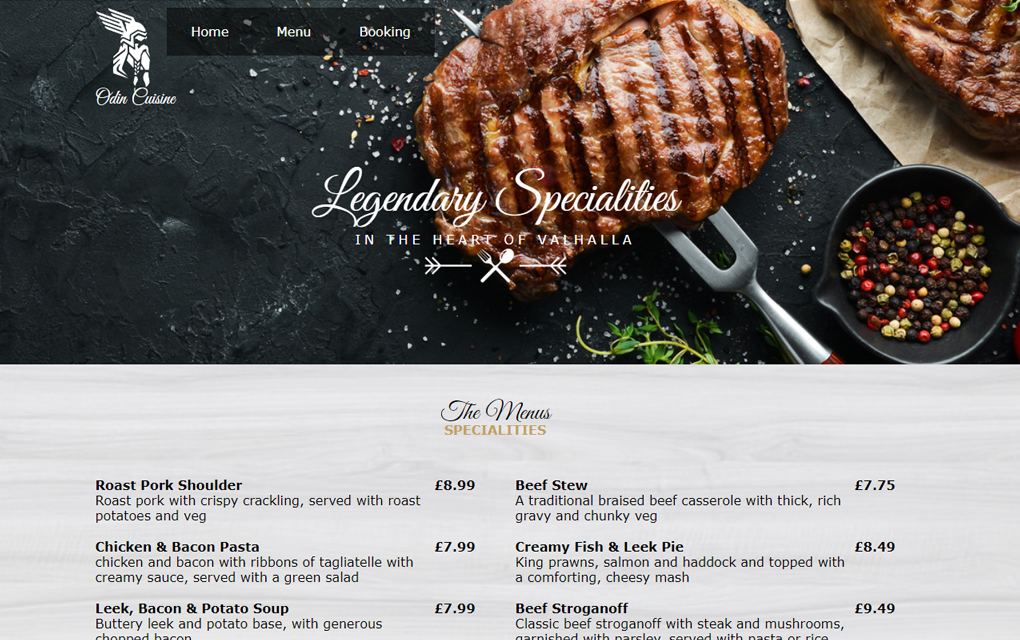
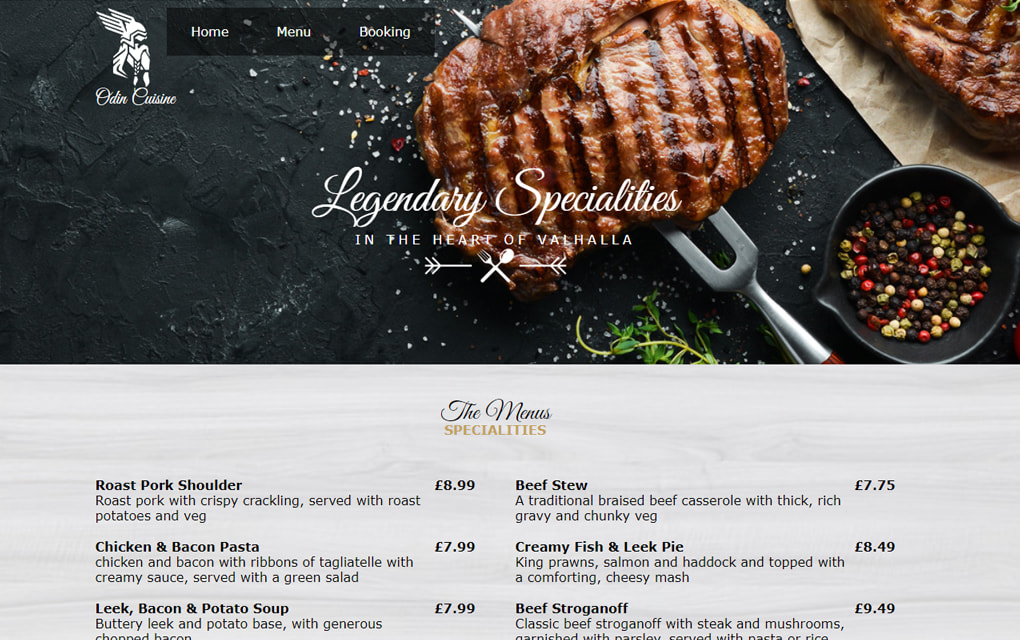
Optimize page

diff --git a/index.html b/index.html
@@ -5,6 +5,13 @@
   <meta charset="UTF-8">
   <meta name="viewport" content="width=device-width, initial-scale=1.0">
 
+  <meta name="description"
+    content="Ekaterina Furman portfolio website. Showing my HTML, CSS, JavaScript, and other skills.">
+
+  <link rel="icon" href="img/favicon/lux-circle-dragon-favicon.png">
+  <link rel="apple-touch-icon" href="img/favicon/lux-circle-dragon-favicon-apple-180.png">
+  <link rel="manifest" href="manifest.webmanifest">
+
   <link rel="preconnect" href="https://fonts.googleapis.com">
   <link rel="preconnect" href="https://fonts.gstatic.com" crossorigin>
   <link href="https://fonts.googleapis.com/css2?family=Rubik:wght@300;400;500;600;700&display=swap" rel="stylesheet">
@@ -65,11 +72,12 @@
           <a class="btn btn-secondary" href="#portfolio">Portfolio</a>
 
           <div class="socials-box">
-            <a class="socials" target="_blank" href="https://www.linkedin.com/in/ekaterina-furman/"><ion-icon
-                class="socials-icon" name="logo-linkedin"></ion-icon></a>
+            <a aria-label="linkedin" class="socials" target="_blank"
+              href="https://www.linkedin.com/in/ekaterina-furman/"><ion-icon class="socials-icon"
+                name="logo-linkedin"></ion-icon></a>
 
-            <a class="socials" target="_blank" href="https://github.com/LuxScintilla"><ion-icon class="socials-icon"
-                name="logo-github"></ion-icon></a>
+            <a aria-label="github" class="socials" target="_blank" href="https://github.com/LuxScintilla"><ion-icon
+                class="socials-icon" name="logo-github"></ion-icon></a>
           </div>
         </div>
         <div class="hero-img-box">
@@ -319,11 +327,12 @@
           </a>
 
           <div class="footer-socials">
-            <a class="socials" target="_blank" href="https://www.linkedin.com/in/ekaterina-furman/"><ion-icon
-                class="socials-icon" name="logo-linkedin"></ion-icon></a>
+            <a aria-label="linkedin" class="socials" target="_blank"
+              href="https://www.linkedin.com/in/ekaterina-furman/"><ion-icon class="socials-icon"
+                name="logo-linkedin"></ion-icon></a>
 
-            <a class="socials" target="_blank" href="https://github.com/LuxScintilla"><ion-icon class="socials-icon"
-                name="logo-github"></ion-icon></a>
+            <a aria-label="github" class="socials" target="_blank" href="https://github.com/LuxScintilla"><ion-icon
+                class="socials-icon" name="logo-github"></ion-icon></a>
           </div>
 
           <p class="copyright">

diff --git a/css/style.css b/css/style.css
@@ -214,7 +214,7 @@ a:visited {
 /* HERO ---------------------------------------------------------- */
 
 .section-hero {
-  background-image: url("/img/mountain-daniel-leone.jpg");
+  background-image: url("/img/mountain-daniel-leone-compressed.jpg");
   background-position: center;
   background-repeat: no-repeat;
   background-size: cover;

diff --git a/js/script.js b/js/script.js
@@ -28,3 +28,7 @@ mobileNavBtn.forEach(
     headerEl.classList.toggle("nav-open");
   })
 );
+
+const yearEl = document.querySelector(".year");
+const currentYear = new Date().getFullYear();
+yearEl.textContent = currentYear;

diff --git a/css/queries.css b/css/queries.css
@@ -232,3 +232,15 @@
     width: 80%;
   }
 }
+
+@media (max-width: 25em) {
+  .contact-form {
+    width: 95%;
+  }
+}
+
+@media (max-width: 18em) {
+  html {
+    font-size: 40%;
+  }
+}
